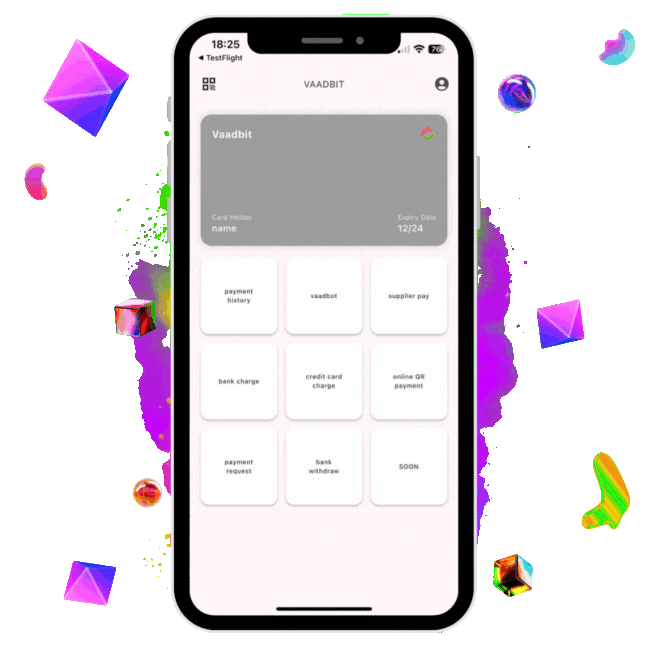
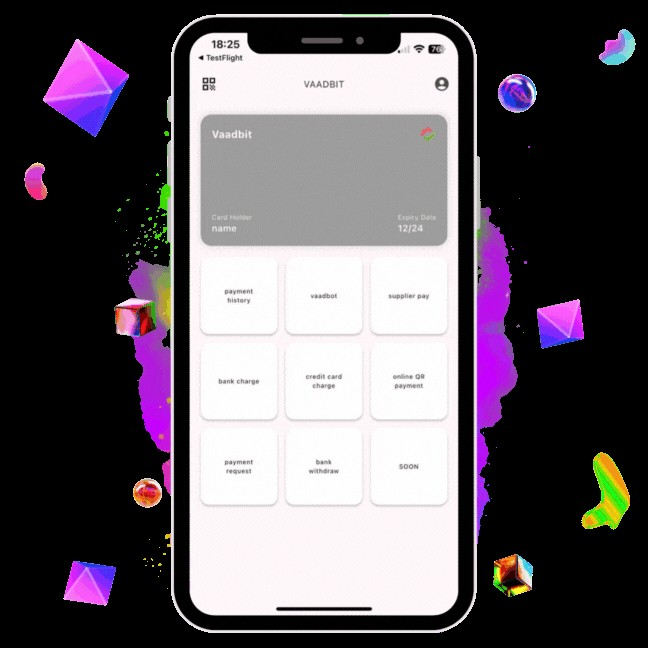
Update Vaadbot assets and styles

diff --git a/style.css b/style.css
@@ -1555,7 +1555,6 @@ p {
     max-width: 280px;
     width: 100%;
     margin-bottom: 1.5rem;
-    filter: brightness(0) invert(1);
 }
 
 .vb-hero h1 {
@@ -1590,6 +1589,11 @@ p {
     width: 100%;
     border-radius: 28px;
     box-shadow: 0 28px 56px rgba(0, 0, 0, 0.35);
+}
+
+.vb-hero-shot {
+    max-width: 420px;
+    border-radius: 24px;
 }
 
 .vb-phone-shot-sm {
@@ -1632,34 +1636,6 @@ p {
     height: auto;
     border-radius: 24px;
     filter: drop-shadow(0 28px 48px rgba(15, 23, 42, 0.18));
-}
-
-.vb-watermark {
-    position: absolute;
-    color: rgba(15, 23, 42, 0.06);
-    font-weight: 800;
-    font-family: 'Heebo', sans-serif;
-    pointer-events: none;
-    user-select: none;
-    z-index: 0;
-}
-
-.vb-watermark-ios {
-    top: 4%;
-    left: 8%;
-    font-size: clamp(2.5rem, 6vw, 4.5rem);
-    letter-spacing: -1px;
-    display: flex;
-    align-items: center;
-    gap: 10px;
-}
-
-.vb-watermark-brand {
-    top: -8px;
-    left: 0;
-    font-size: clamp(2.8rem, 7vw, 5rem);
-    letter-spacing: -2px;
-    color: rgba(0, 97, 255, 0.07);
 }
 
 .vb-bit-copy .section-badge,
@@ -1951,7 +1927,6 @@ p {
 .vb-cta-banner {
     max-width: 320px;
     margin: 0 auto 1.5rem;
-    filter: brightness(0) invert(1);
 }
 
 .vb-back-btn {
@@ -2011,11 +1986,6 @@ p {
 
     .vb-bit-copy > p {
         margin-inline: auto;
-    }
-
-    .vb-watermark-brand {
-        left: 50%;
-        transform: translateX(-50%);
     }
 
     .vb-split-reverse .vb-split-text,

diff --git a/vaadbot/index.html b/vaadbot/index.html
@@ -97,7 +97,8 @@
                     </div>
                 </div>
                 <div class="vb-hero-visual">
-                    <img src="../assets/vaadbot/preview-1.png" alt="מסך אפליקציית VaadBot" class="vb-phone-shot">
+                    <img src="../assets/vaadbot/vaadbot-hero.png" alt="אפליקציית VaadBot"
+                        class="vb-phone-shot vb-hero-shot">
                 </div>
             </div>
         </div>
@@ -129,14 +130,10 @@
         <div class="container margin-auto">
             <div class="vb-bit-layout scroll-reveal">
                 <div class="vb-bit-media">
-                    <span class="vb-watermark vb-watermark-ios" aria-hidden="true">
-                        <i class="fa-brands fa-apple"></i> iOS
-                    </span>
                     <img src="../assets/vaadbit/app-hero.png" alt="מסך VaadBit – ניהול תשלומי ועד בית"
                         class="vb-bit-phone">
                 </div>
                 <div class="vb-bit-copy">
-                    <span class="vb-watermark vb-watermark-brand" aria-hidden="true">billclick</span>
                     <div class="section-badge">VaadBit</div>
                     <h2>האפליקציה המושלמת לניהול תשלומי ועד בית</h2>
                     <p>